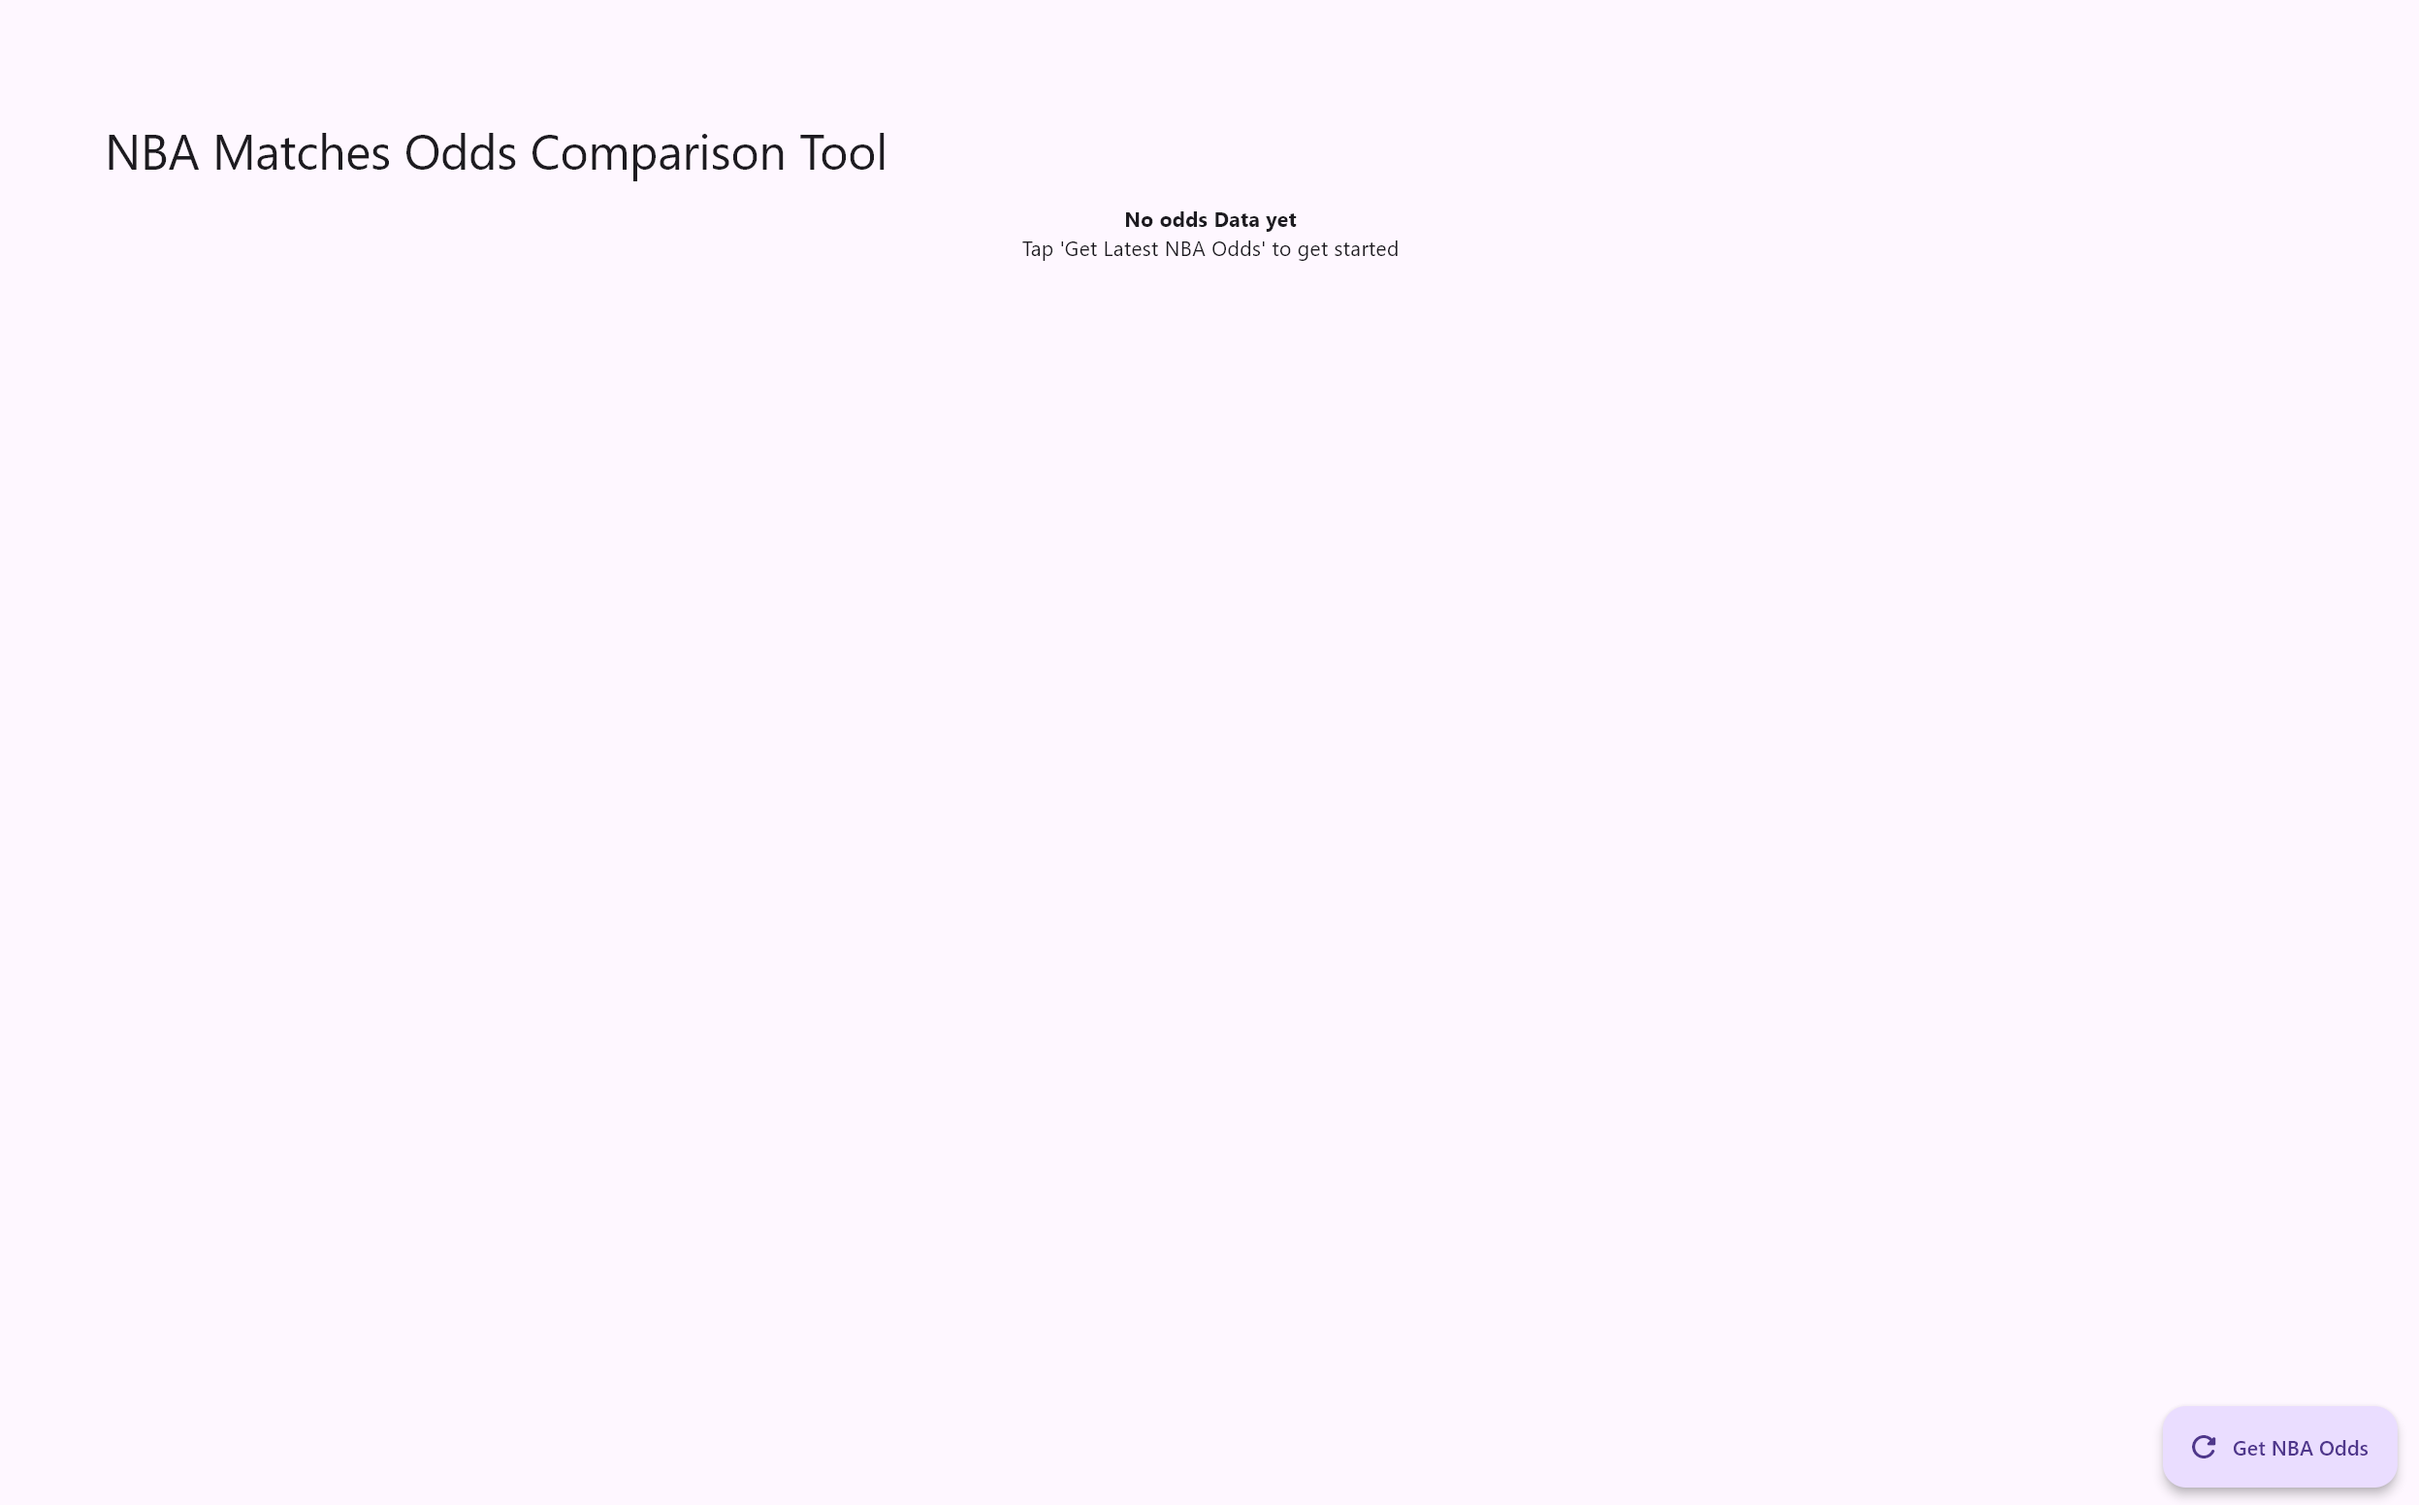
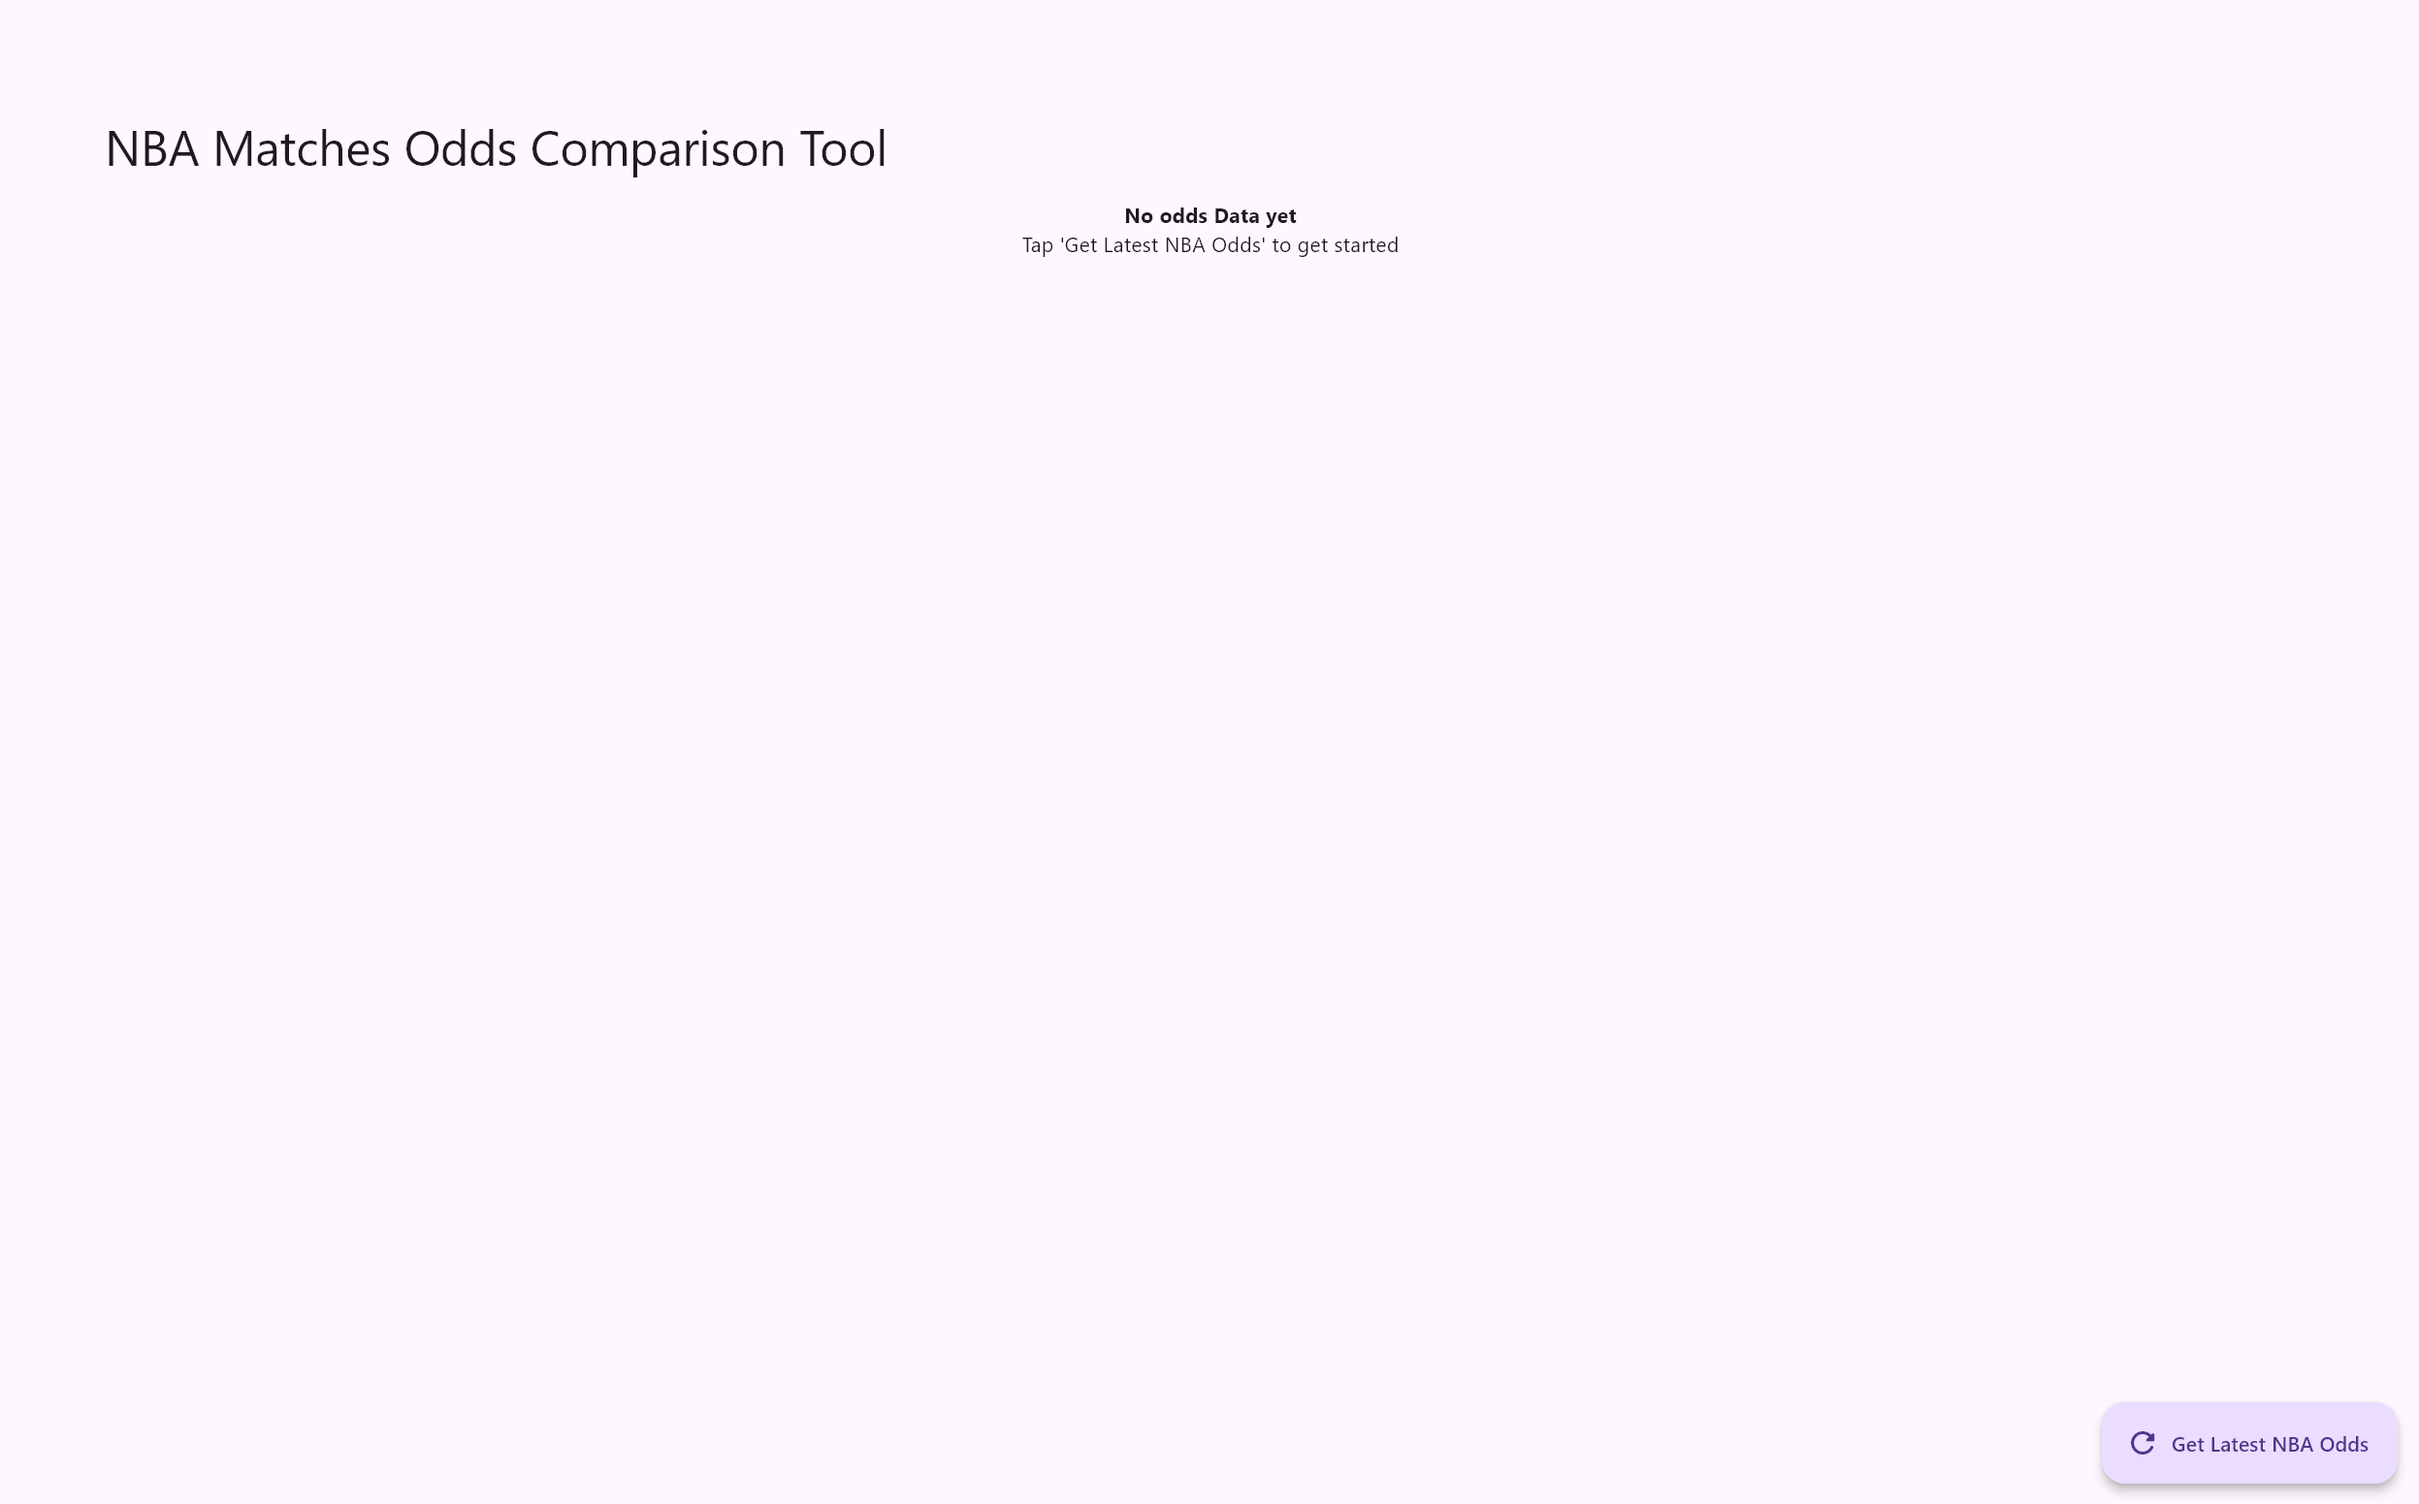
edited readme and some frontend

Changed region(s): [[0.0617, 0.0928, 0.3705, 0.1238], [0.4322, 0.1238, 0.5866, 0.1857], [0.8645, 0.9284, 0.988, 0.9903]]

diff --git a/lib/screens/home_screen.dart b/lib/screens/home_screen.dart
@@ -65,7 +65,7 @@ class _HomeScreenState extends State<HomeScreen> {
         )
       )
       : const Icon(Icons.refresh_rounded),
-      label: Text(_isLoading ? "Loading,,,": "Get NBA Odds"),
+      label: Text(_isLoading ? "Loading,,,": "Get Latest NBA Odds"),
       )
     );
   }
